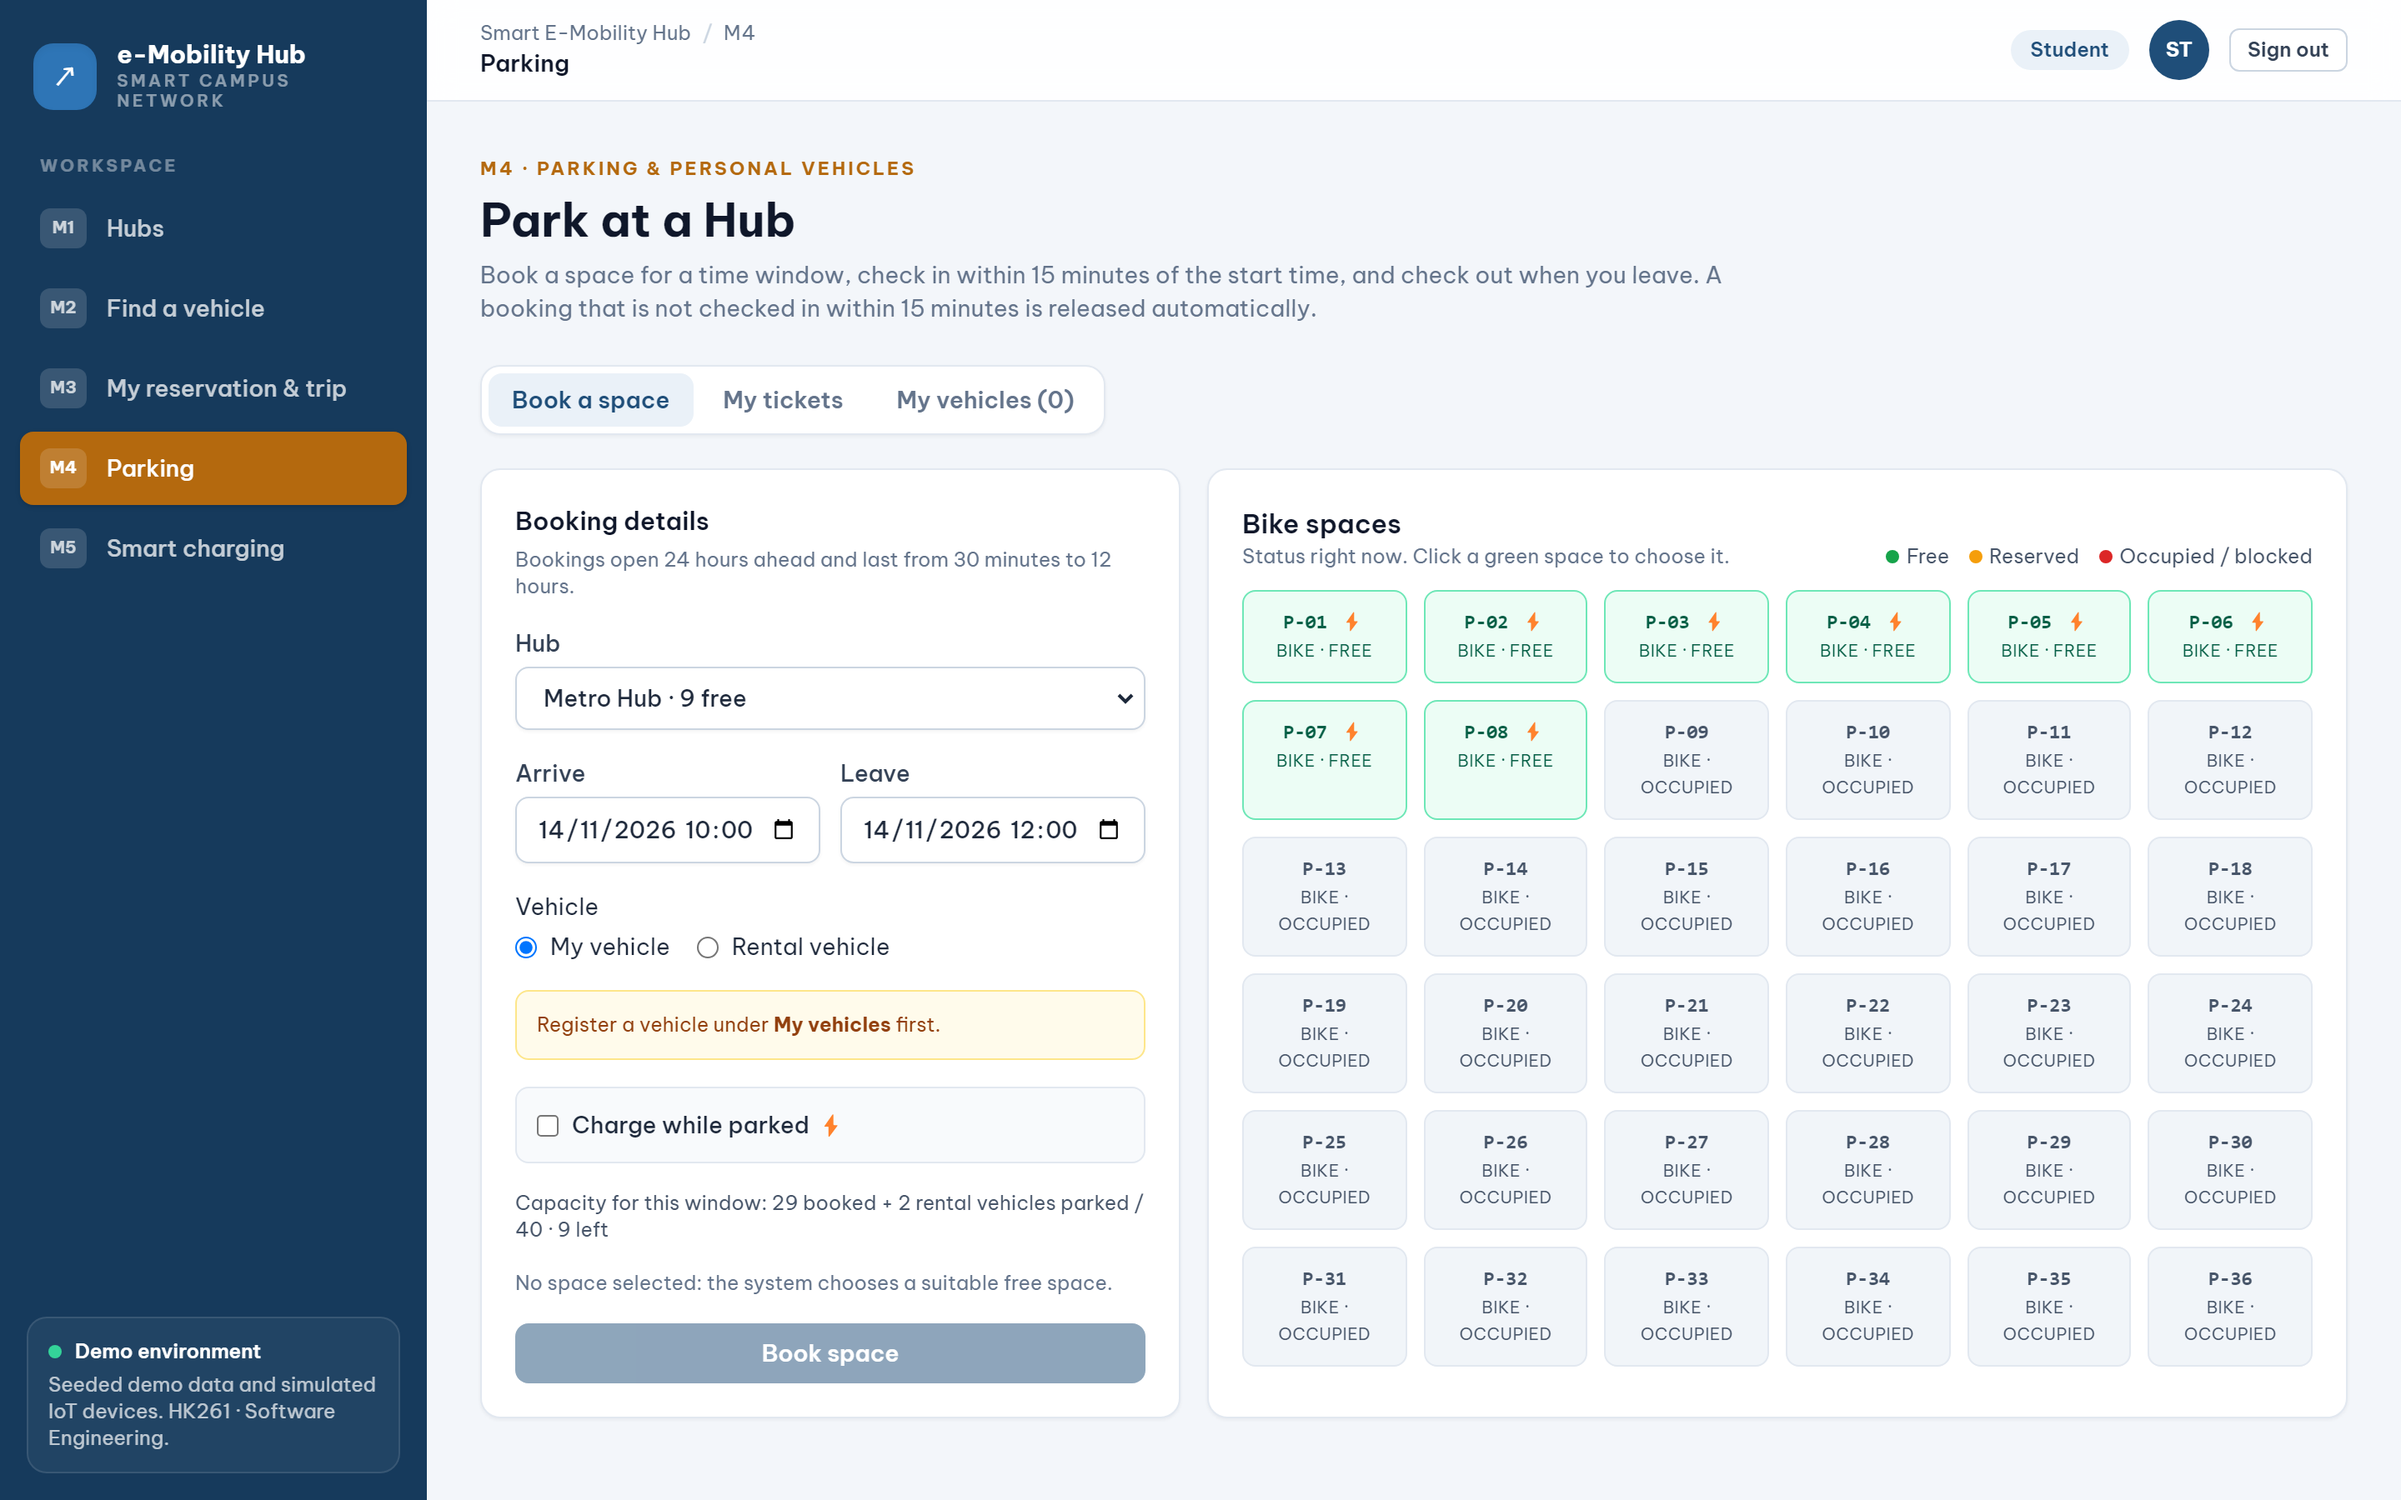
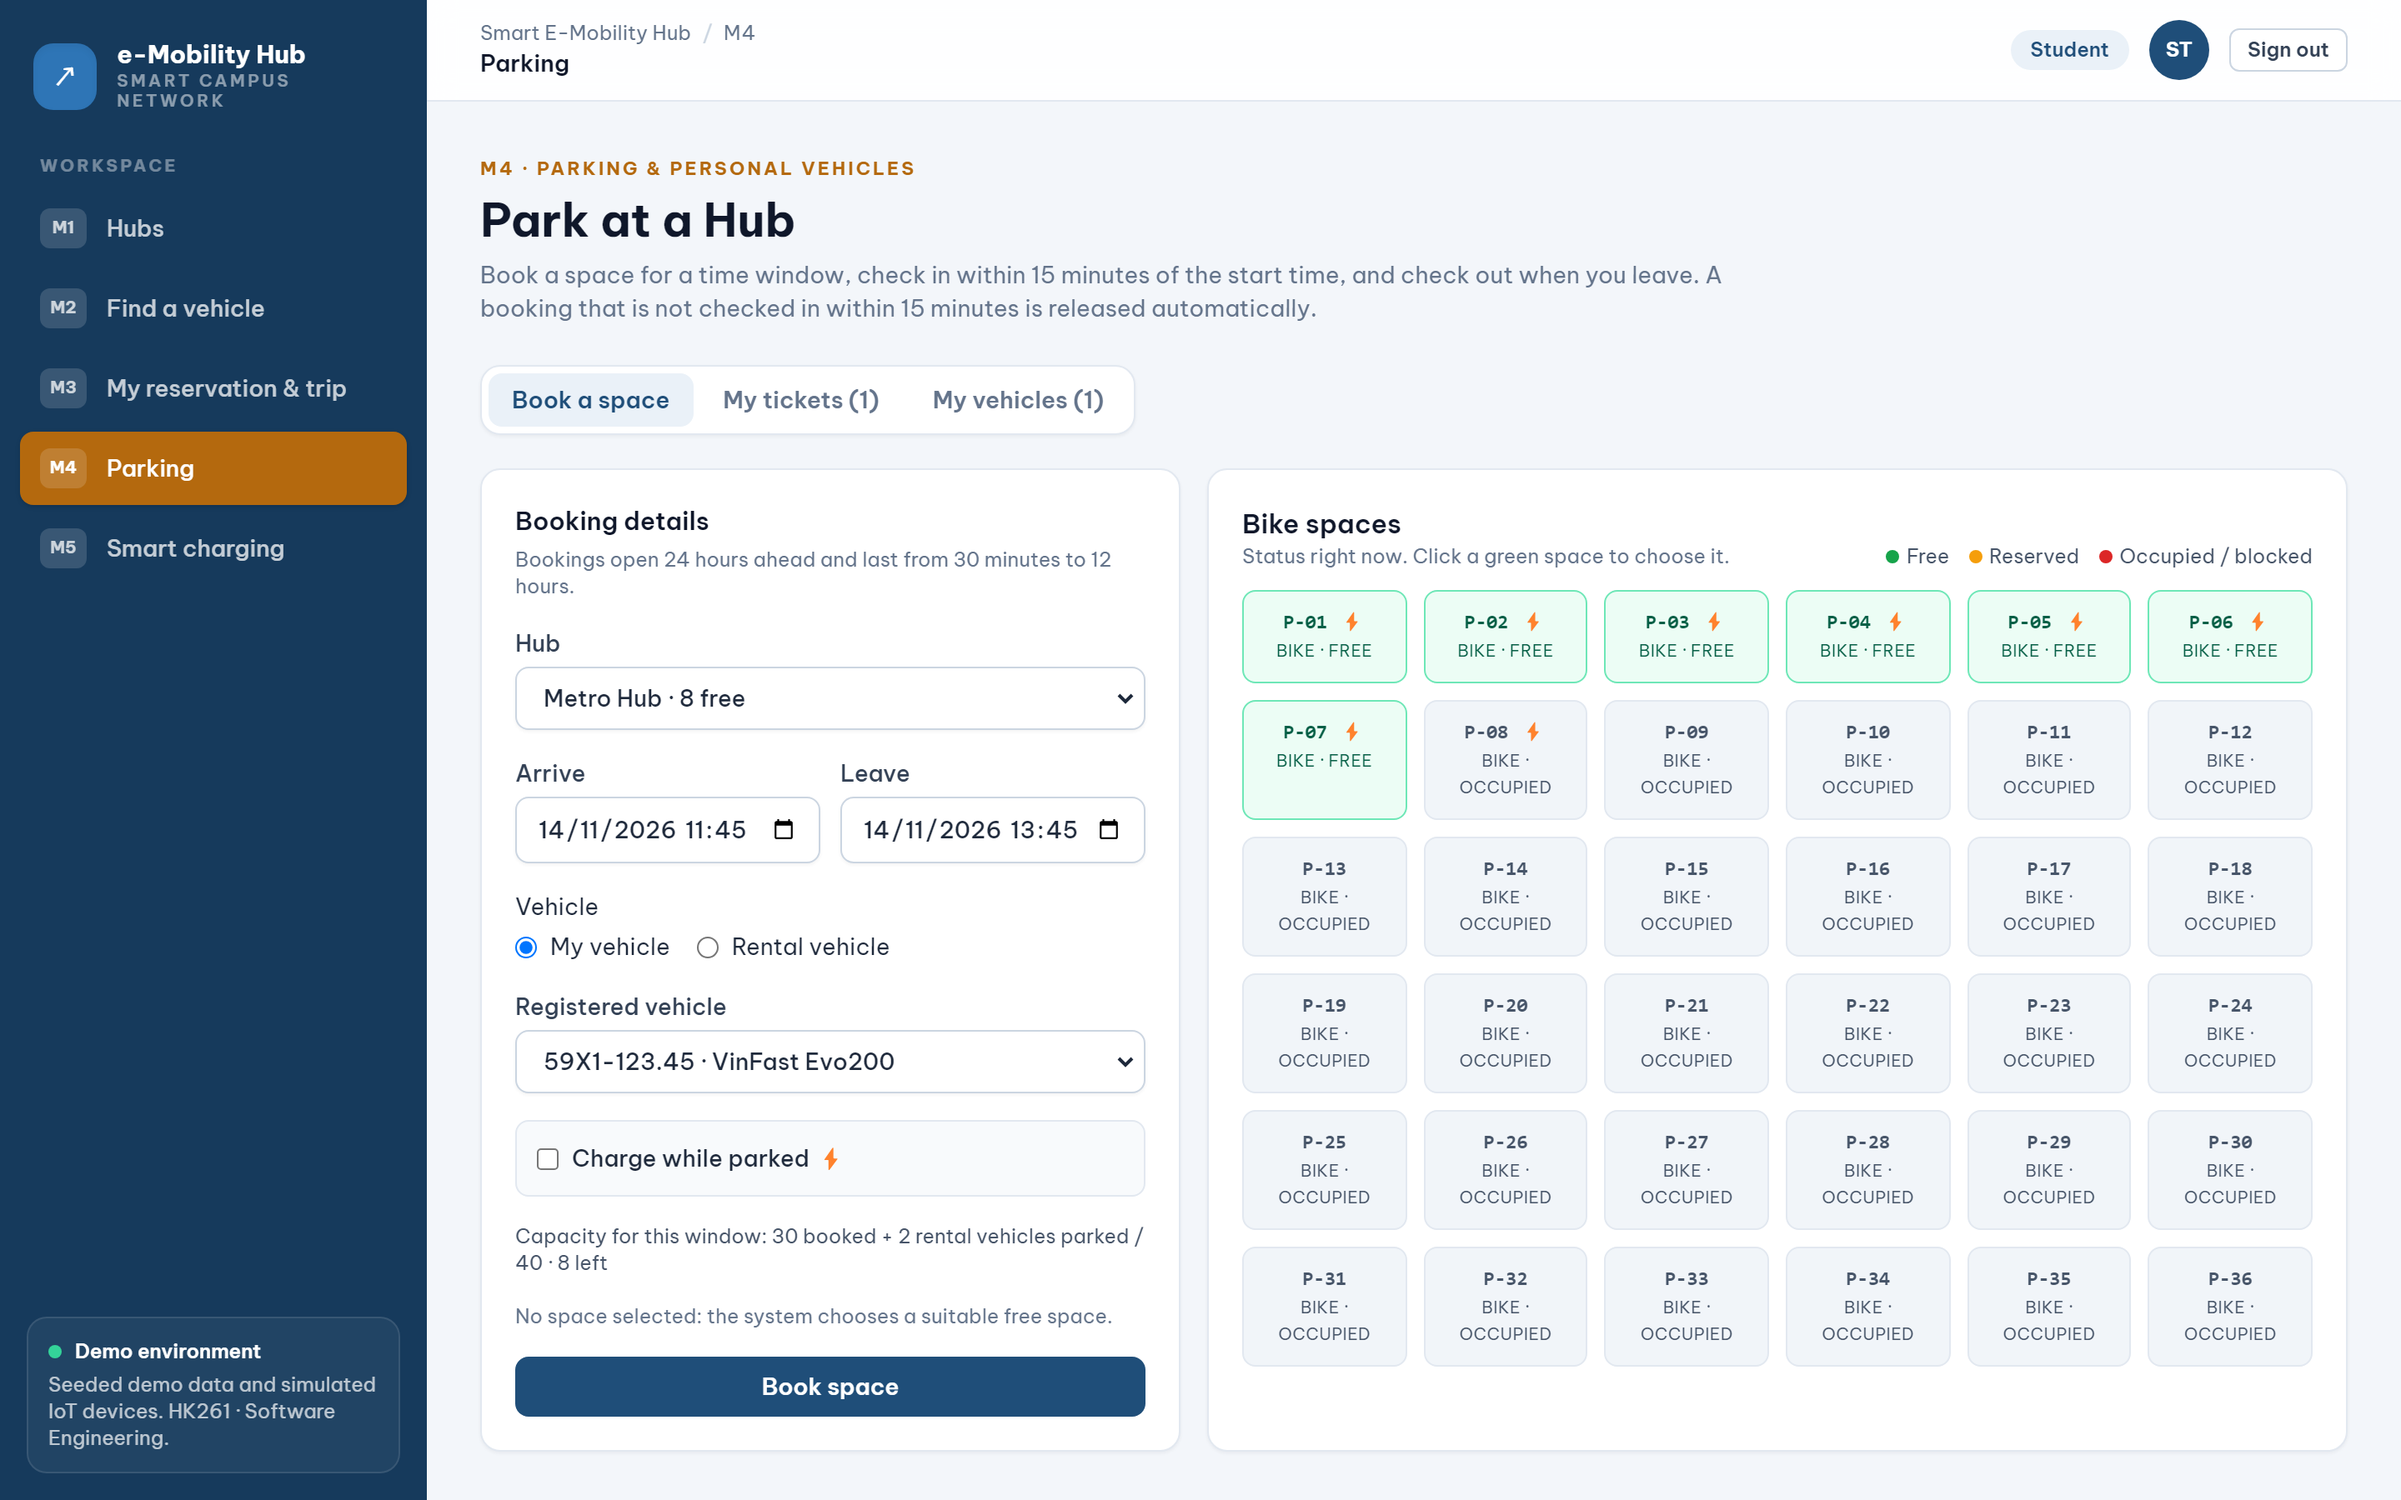
[DOCS] Update figure tools: M5 state from code, M4 mockups, capture fixes

diff --git a/docs/tools_for_figures/python/m5/m5.py b/docs/tools_for_figures/python/m5/m5.py
@@ -59,34 +59,30 @@ EP->>M4: ChargerFailedEvent → block the space of the charger
 ''', width=1500)
 
 
-# ---------------------------------------------------------------- state and activity: TV5's Graphviz sources, unchanged
-# (originally docs/figures/m5_state_machine.dot and m5_activity_allocation.dot)
-run_dot(r'''digraph M5StateMachine {
-  graph [rankdir=LR, bgcolor="white", pad="0.25", nodesep="0.5", ranksep="0.65", splines=true, label="M5 · ChargingSession state machine", labelloc=t, fontsize=22, fontname="Arial"];
-  node [shape=box, style="rounded,filled", fillcolor="#f4f7fb", color="#315b7d", penwidth=1.5, fontname="Arial", fontsize=12, margin="0.18,0.12"];
-  edge [color="#38556e", penwidth=1.25, arrowsize=0.8, fontname="Arial", fontsize=10];
-  init [shape=circle, label="", width=0.18, height=0.18, fillcolor="#263746", color="#263746"];
-  Requested [label="REQUESTED"];
-  Queued [label="QUEUED", fillcolor="#e8f1fb"];
-  Scheduled [label="SCHEDULED\nport assigned · hold ≤ 10 min", fillcolor="#e8f1fb"];
-  Charging [label="CHARGING", fillcolor="#e1f3ee", color="#23845b"];
-  Interrupted [label="INTERRUPTED\nSoC persisted", fillcolor="#fff2d8", color="#b7791f"];
-  Completed [label="COMPLETED", shape=doublecircle, fillcolor="#dcf3e6", color="#23845b"];
-  Cancelled [label="CANCELLED", shape=doublecircle, fillcolor="#f2f3f5", color="#78838e"];
-  init -> Requested [label="create session"];
-  Requested -> Queued [label="enqueue"];
-  Queued -> Scheduled [label="assign available port"];
-  Scheduled -> Charging [label="start [within hold / window]"];
-  Charging -> Completed [label="Timer [SoC ≥ 90% or 90 min or slot ends]"];
-  Charging -> Interrupted [label="ChargerFailed / save SoC"];
-  Scheduled -> Interrupted [label="ChargerFailed / release assignment"];
-  Interrupted -> Queued [label="requeue / preserve waitingSince;\n+20 only if no replacement port"];
-  Requested -> Cancelled [label="cancel"];
-  Queued -> Cancelled [label="cancel"];
-  Scheduled -> Cancelled [label="cancel or hold expires"];
-  Interrupted -> Cancelled [label="cancel"];
-  {rank=same; Completed; Cancelled;}
-}''', O+'m5_state.png', dpi=150)
+# ---------------------------------------------------------------- state
+# State: ChargingSession, following ChargingSession.java (assign / enqueue / start / interrupt / returnToQueue / cancel).
+statemachine(O+'m5_state.png',
+ ['REQUESTED','QUEUED','SCHEDULED',('CHARGING','fillcolor="#e1f3e8", color="#3a7d44"'),('INTERRUPTED','fillcolor="#fff1c9", color="#c9a227"'),
+  ('COMPLETED','fillcolor="#e8e8e8", color="#999999"'),('CANCELLED','fillcolor="#e8e8e8", color="#999999"')],
+ [('REQUESTED','QUEUED','enqueue [no free point]'),
+  ('REQUESTED','SCHEDULED','assign [point free] or\\nbooked window inside a parking booking'),
+  ('QUEUED','SCHEDULED','allocation [highest P,\\nURGENT first] / hold 10 min'),
+  ('SCHEDULED','CHARGING','start [within the hold\\nor the booked window]'),
+  ('SCHEDULED','QUEUED','hold expires\\n[automatic low-battery session]','style=dashed'),
+  ('CHARGING','COMPLETED','Timer [SoC ≥ 90% or 90 min\\nor the window ends]'),
+  ('SCHEDULED','INTERRUPTED','ChargerFailed\\n/ release the point'),
+  ('CHARGING','INTERRUPTED','ChargerFailed\\n/ save SoC'),
+  ('INTERRUPTED','SCHEDULED','another point free\\nin the same hub'),
+  ('INTERRUPTED','QUEUED','no replacement / keep waitingSince,\\n+20 priority'),
+  ('REQUESTED','CANCELLED','cancel'),('QUEUED','CANCELLED','cancel'),
+  ('SCHEDULED','CANCELLED','cancel, or hold expires\\n[student session]'),('INTERRUPTED','CANCELLED','cancel')],
+ initial='REQUESTED', final=('COMPLETED','CANCELLED'), rankdir='TB',
+ extra='label=<<b>ChargingSession lifecycle — Module M5</b>>; labelloc=t; fontsize=18; ranksep=0.9; nodesep=1.0;',
+ notes=['note [shape=note, style=filled, fillcolor="#fff6d5", color="#c9a227", fontname="DejaVu Sans", fontsize=11, '
+        'label="CHARGING cannot be cancelled: the Timer ends it.\\nQUEUED never jumps to CHARGING: a vehicle charges\\nonly on the point assigned to it."];',
+        'note -> CHARGING [style=dashed, arrowhead=none, color="#c9a227"];'])
+# ---------------------------------------------------------------- activity: TV5's Graphviz source, unchanged
+# (originally docs/figures/m5_activity_allocation.dot)
 run_dot(r'''digraph M5Activity {
   graph [rankdir=TB, bgcolor="white", pad="0.25", nodesep="0.3", ranksep="0.42", splines=ortho, label="M5 · Priority queue dispatch and charger-failure handling", labelloc=t, fontsize=20, fontname="Arial"];
   node [shape=box, style="rounded,filled", fillcolor="#f4f7fb", color="#315b7d", penwidth=1.3, fontname="Arial", fontsize=11, margin="0.14,0.10"];
